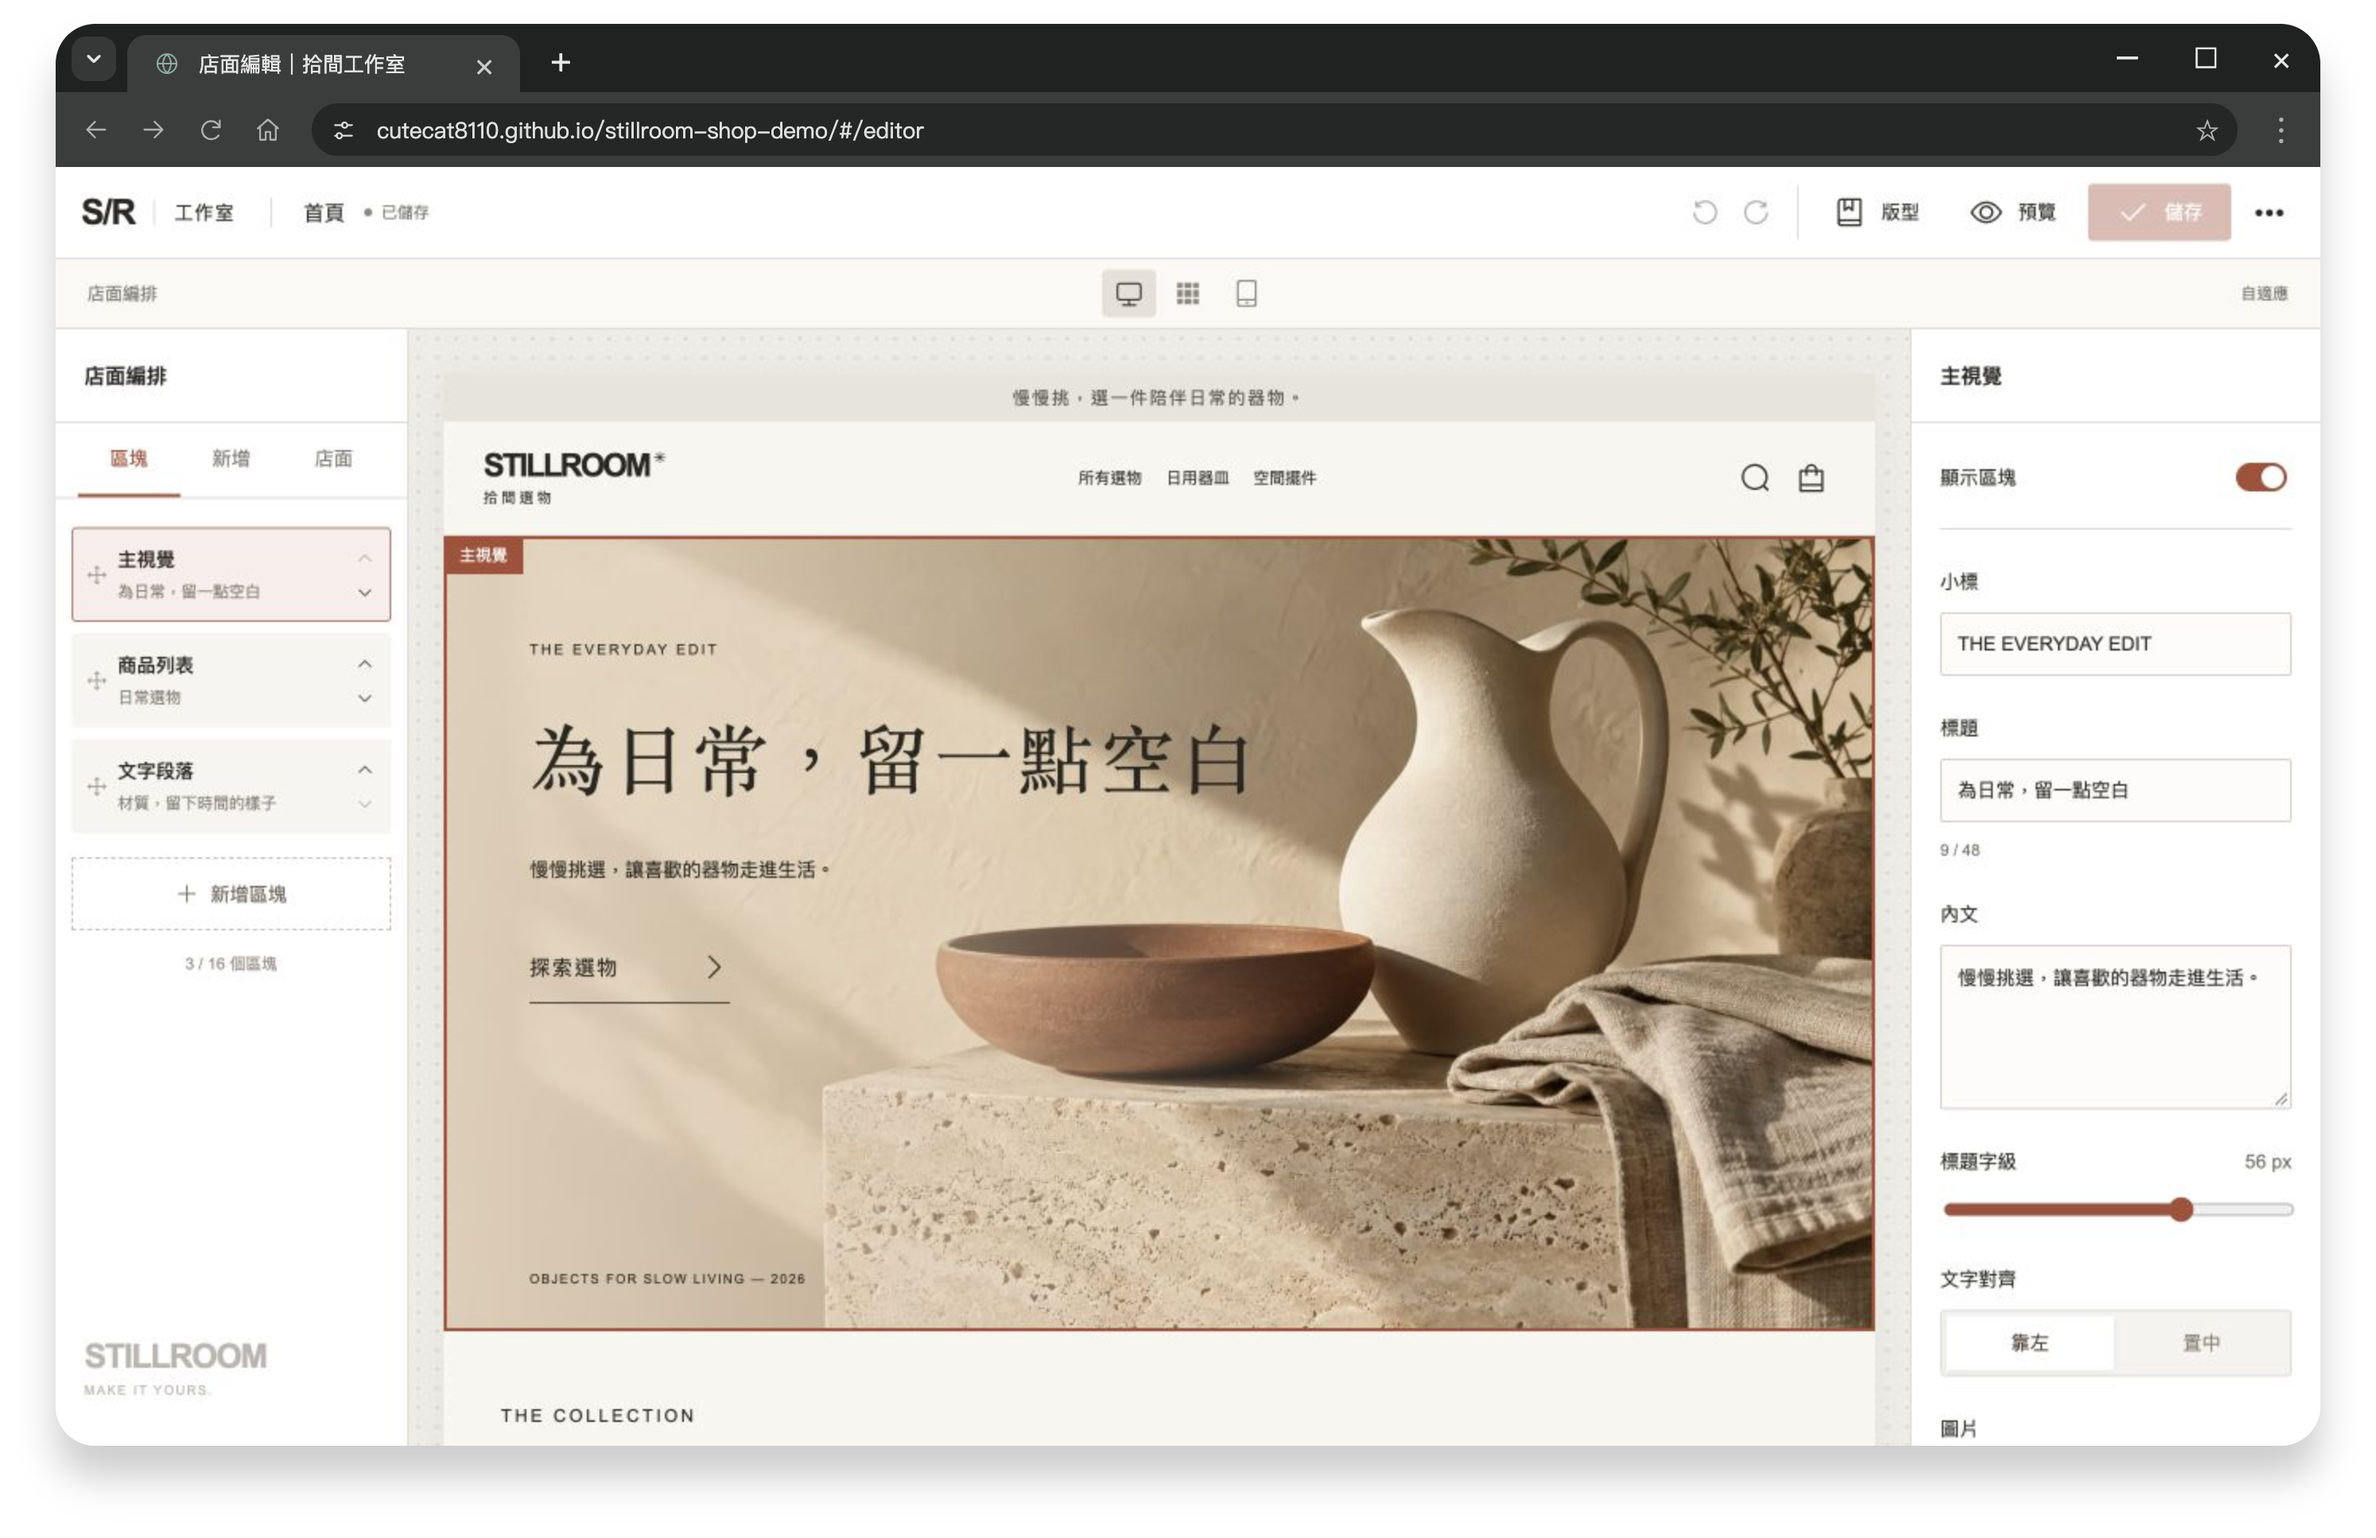
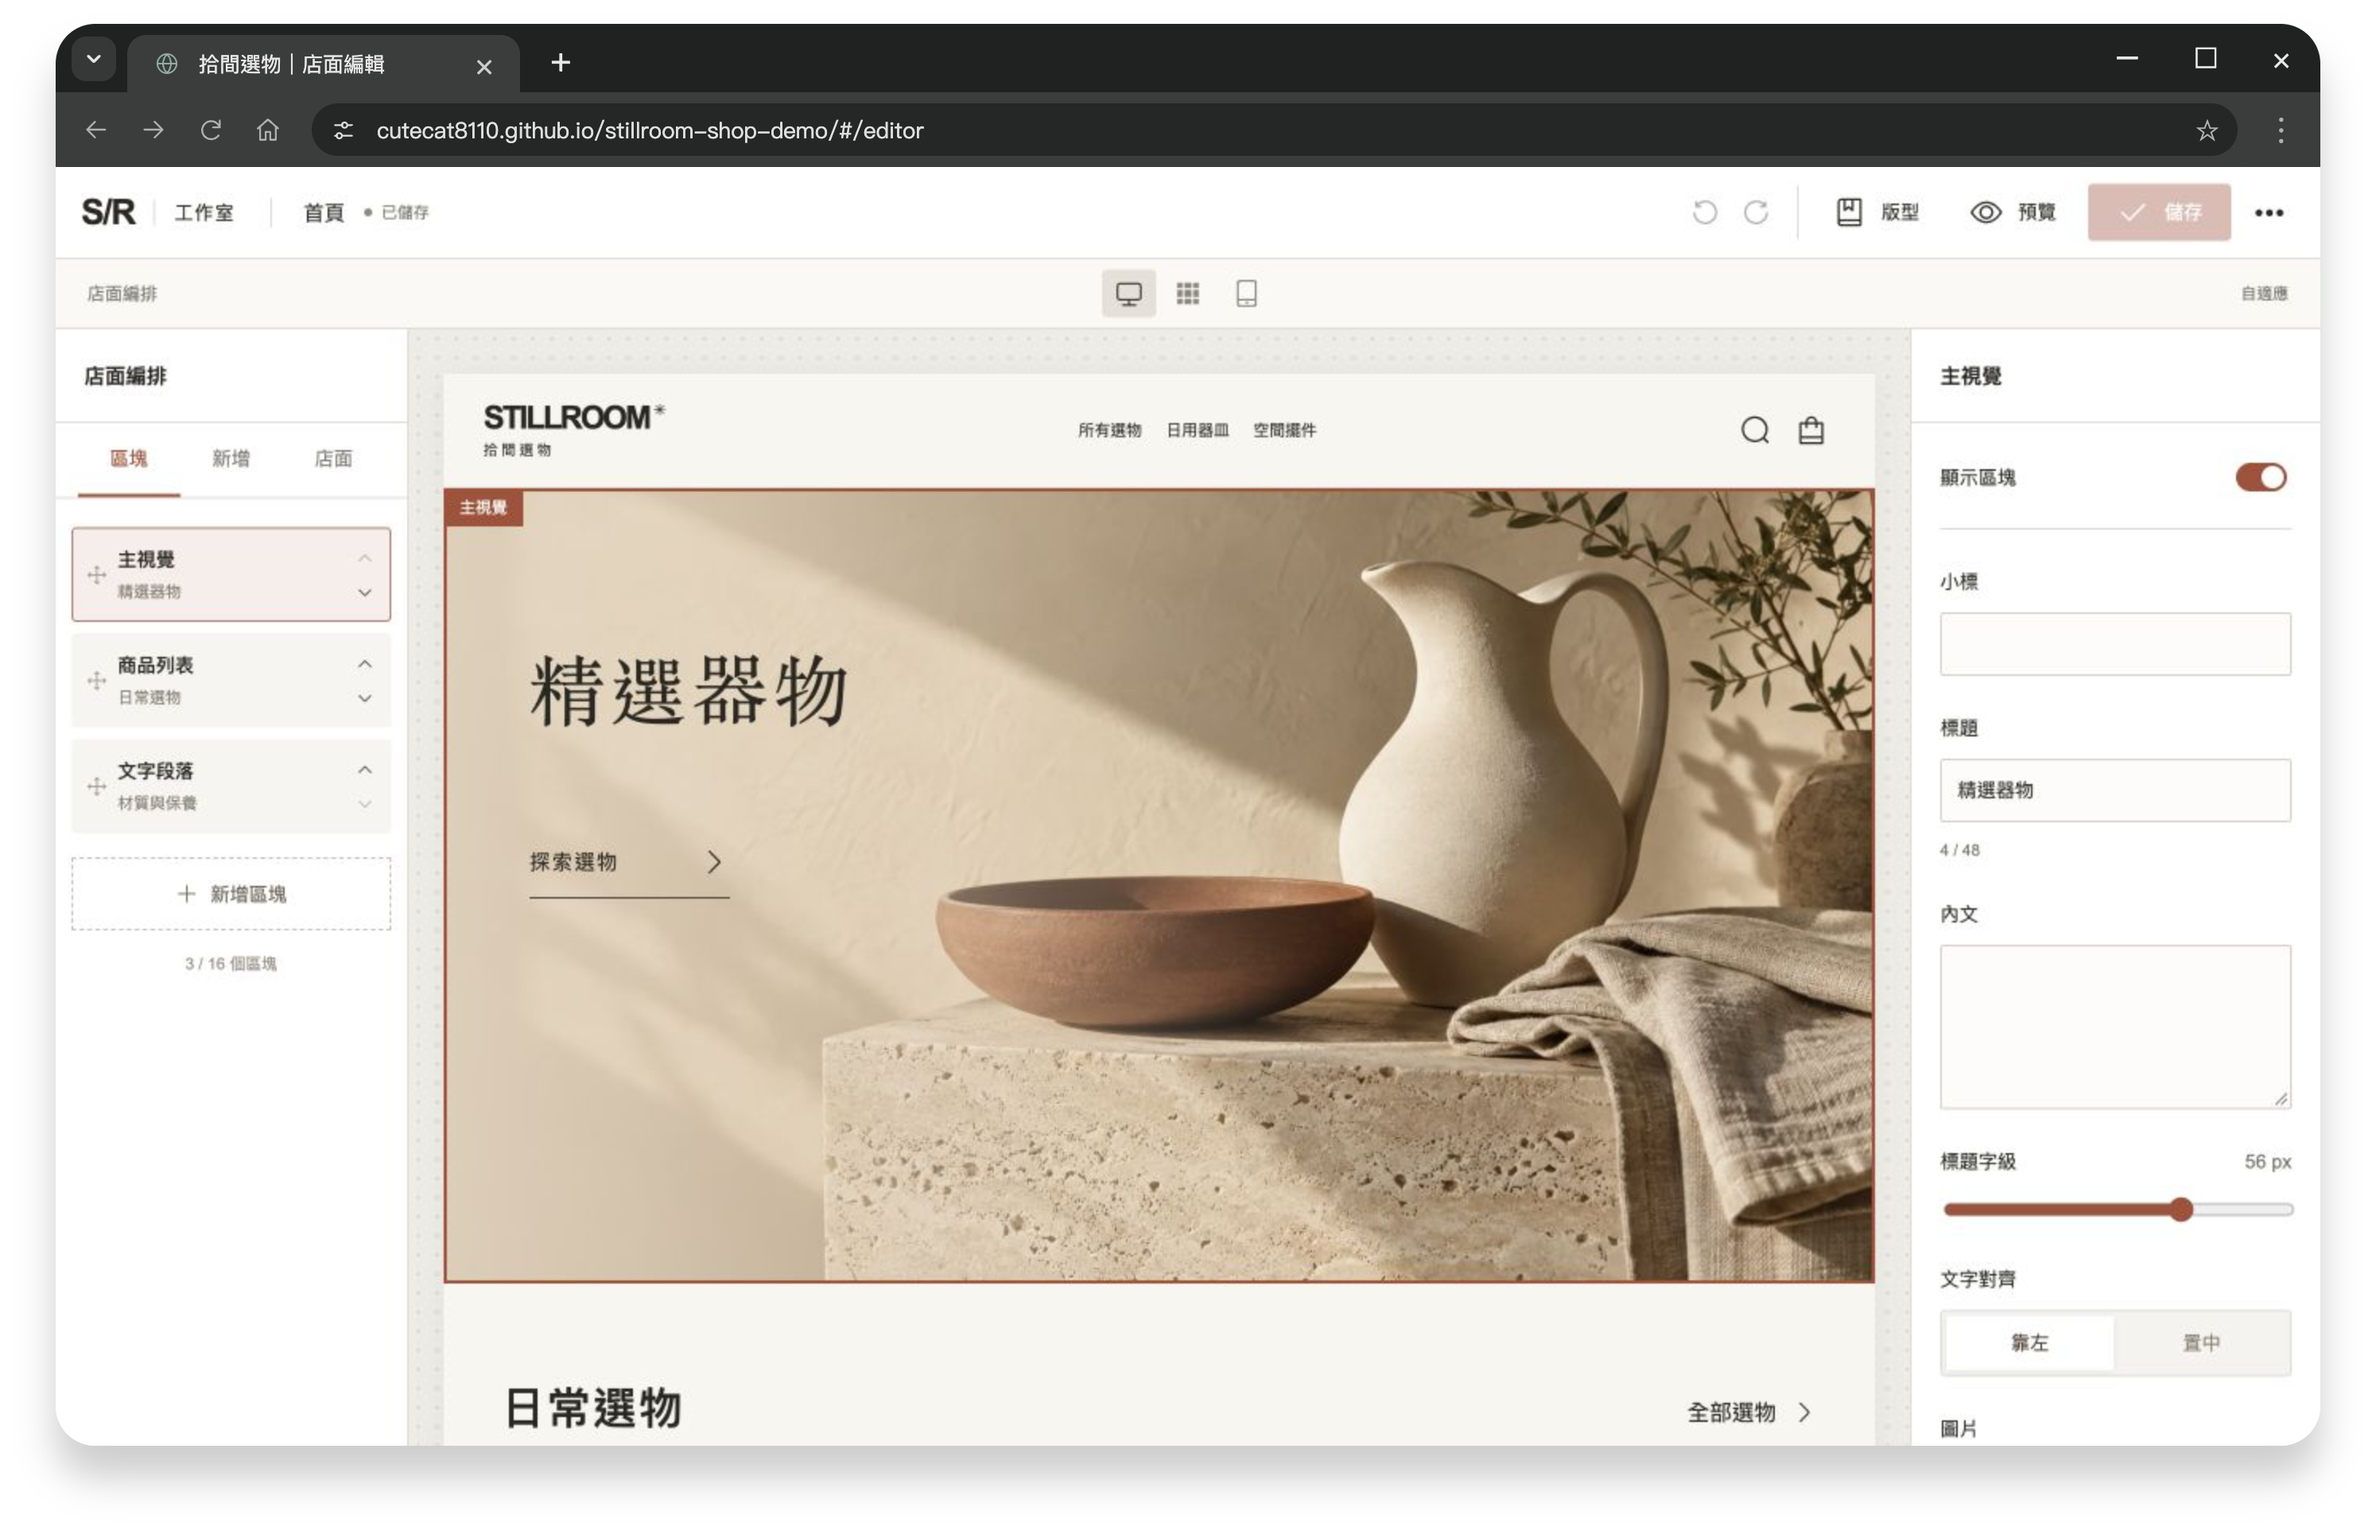
Refresh project overview and screenshots

diff --git a/README.md b/README.md
@@ -2,49 +2,41 @@
 
 `Nuxt 4` · `Vue 3` · `TypeScript` · `Element Plus` · `IndexedDB`
 
-編排店面、確認選物、圖片對話，體驗從編輯到選購的完整互動。
+編排店面、挑選商品，再核對組合與贈品，搭配文字及圖片對話。
 
 **[體驗店面編輯](https://cutecat8110.github.io/stillroom-shop-demo/#/editor)** · **[逛逛店面](https://cutecat8110.github.io/stillroom-shop-demo/)**
 
-![店面編輯](docs/images/editor.png)
+![店面編排與即時預覽](docs/images/editor.png)
 
 | 入口 | 代表操作 |
 | --- | --- |
-| [店面編輯](https://cutecat8110.github.io/stillroom-shop-demo/#/editor) | 區塊排序、文字與圖片調整、復原重做、版型保存 |
+| [店面編輯](https://cutecat8110.github.io/stillroom-shop-demo/#/editor) | 區塊排序、圖文調整、復原重做與版型保存 |
 | [商品選購](https://cutecat8110.github.io/stillroom-shop-demo/#/collection) | 分類搜尋、價格排序、規格與庫存 |
-| [購物車](https://cutecat8110.github.io/stillroom-shop-demo/#/carts) | 數量調整、運費試算、單品／組合／贈品確認 |
-| 客服對話 | 文字與圖片、送出前預覽、放大查看、對話保存 |
+| [購物車](https://cutecat8110.github.io/stillroom-shop-demo/#/carts) | 數量、運費及單品／組合／贈品核對 |
+| 右下角「聊聊」 | 文字與圖片、送出前預覽、放大查看 |
 
-**試用順序：** 編排並儲存 → 選購「日常器物組」與單品 → 購物車確認 → 圖片對話。
-登入頁的鑰匙按鈕可帶入帳密。
-
-![選物店面](docs/images/storefront.png)
-![單品、組合與贈品確認](docs/images/shopping.png)
-
-## 實作重點
-
-- 編輯器與店面共用版面元件，支援桌面、平板與手機預覽。
-- 型別化資料操作、交易寫入與版本檢查，避免跨分頁覆蓋。
-- WebP 圖片、非首屏延後載入，編輯與對話元件分開載入。
+**試用：** 點鑰匙登入編輯器 → 編排並儲存 → 選購商品 → 確認選物 → 圖片對話。
 
 <details>
-<summary>共用架構</summary>
+<summary>店面與選物確認</summary>
 
-```mermaid
-flowchart LR
-  A[店面編輯] --> B[共用版面元件]
-  C[選物店面] --> B
-  D[購物車與確認] --> E[資料操作與驗證]
-  F[文字與圖片對話] --> E
-  A --> E
-  E --> G[IndexedDB]
-  G --> C
-```
+![目前選物店面](docs/images/storefront.png)
+![單品、組合內含與贈品](docs/images/shopping.png)
 
 </details>
 
-## 體驗說明
+<details>
+<summary>實作重點</summary>
 
-商品、帳號與對話均為展示資料，保存在目前瀏覽器。選物確認不建立實際訂單，沒有付款、出貨或真人客服；登入並非後端驗證。
+編輯器與店面共用版面元件，支援桌面、平板與手機預覽。WebP 圖片及非首屏延後載入；IndexedDB 交易與版本檢查避免跨分頁覆蓋。
 
-重新整理保留已存內容，選物需重新確認。「重設資料」可恢復初始狀態。圖片僅在瀏覽器內處理，支援 PNG、JPEG、WebP，單張上限 2 MB。
+</details>
+
+<details>
+<summary>使用說明</summary>
+
+商品、帳號與對話為展示資料，保存在目前瀏覽器。確認選物不建立實際訂單，沒有付款、出貨或真人客服；登入並非後端驗證。
+
+重新整理保留已存內容，選物需重新確認。「重設資料」恢復初始狀態。圖片僅在瀏覽器處理，支援 PNG、JPEG、WebP，單張上限 2 MB。
+
+</details>
